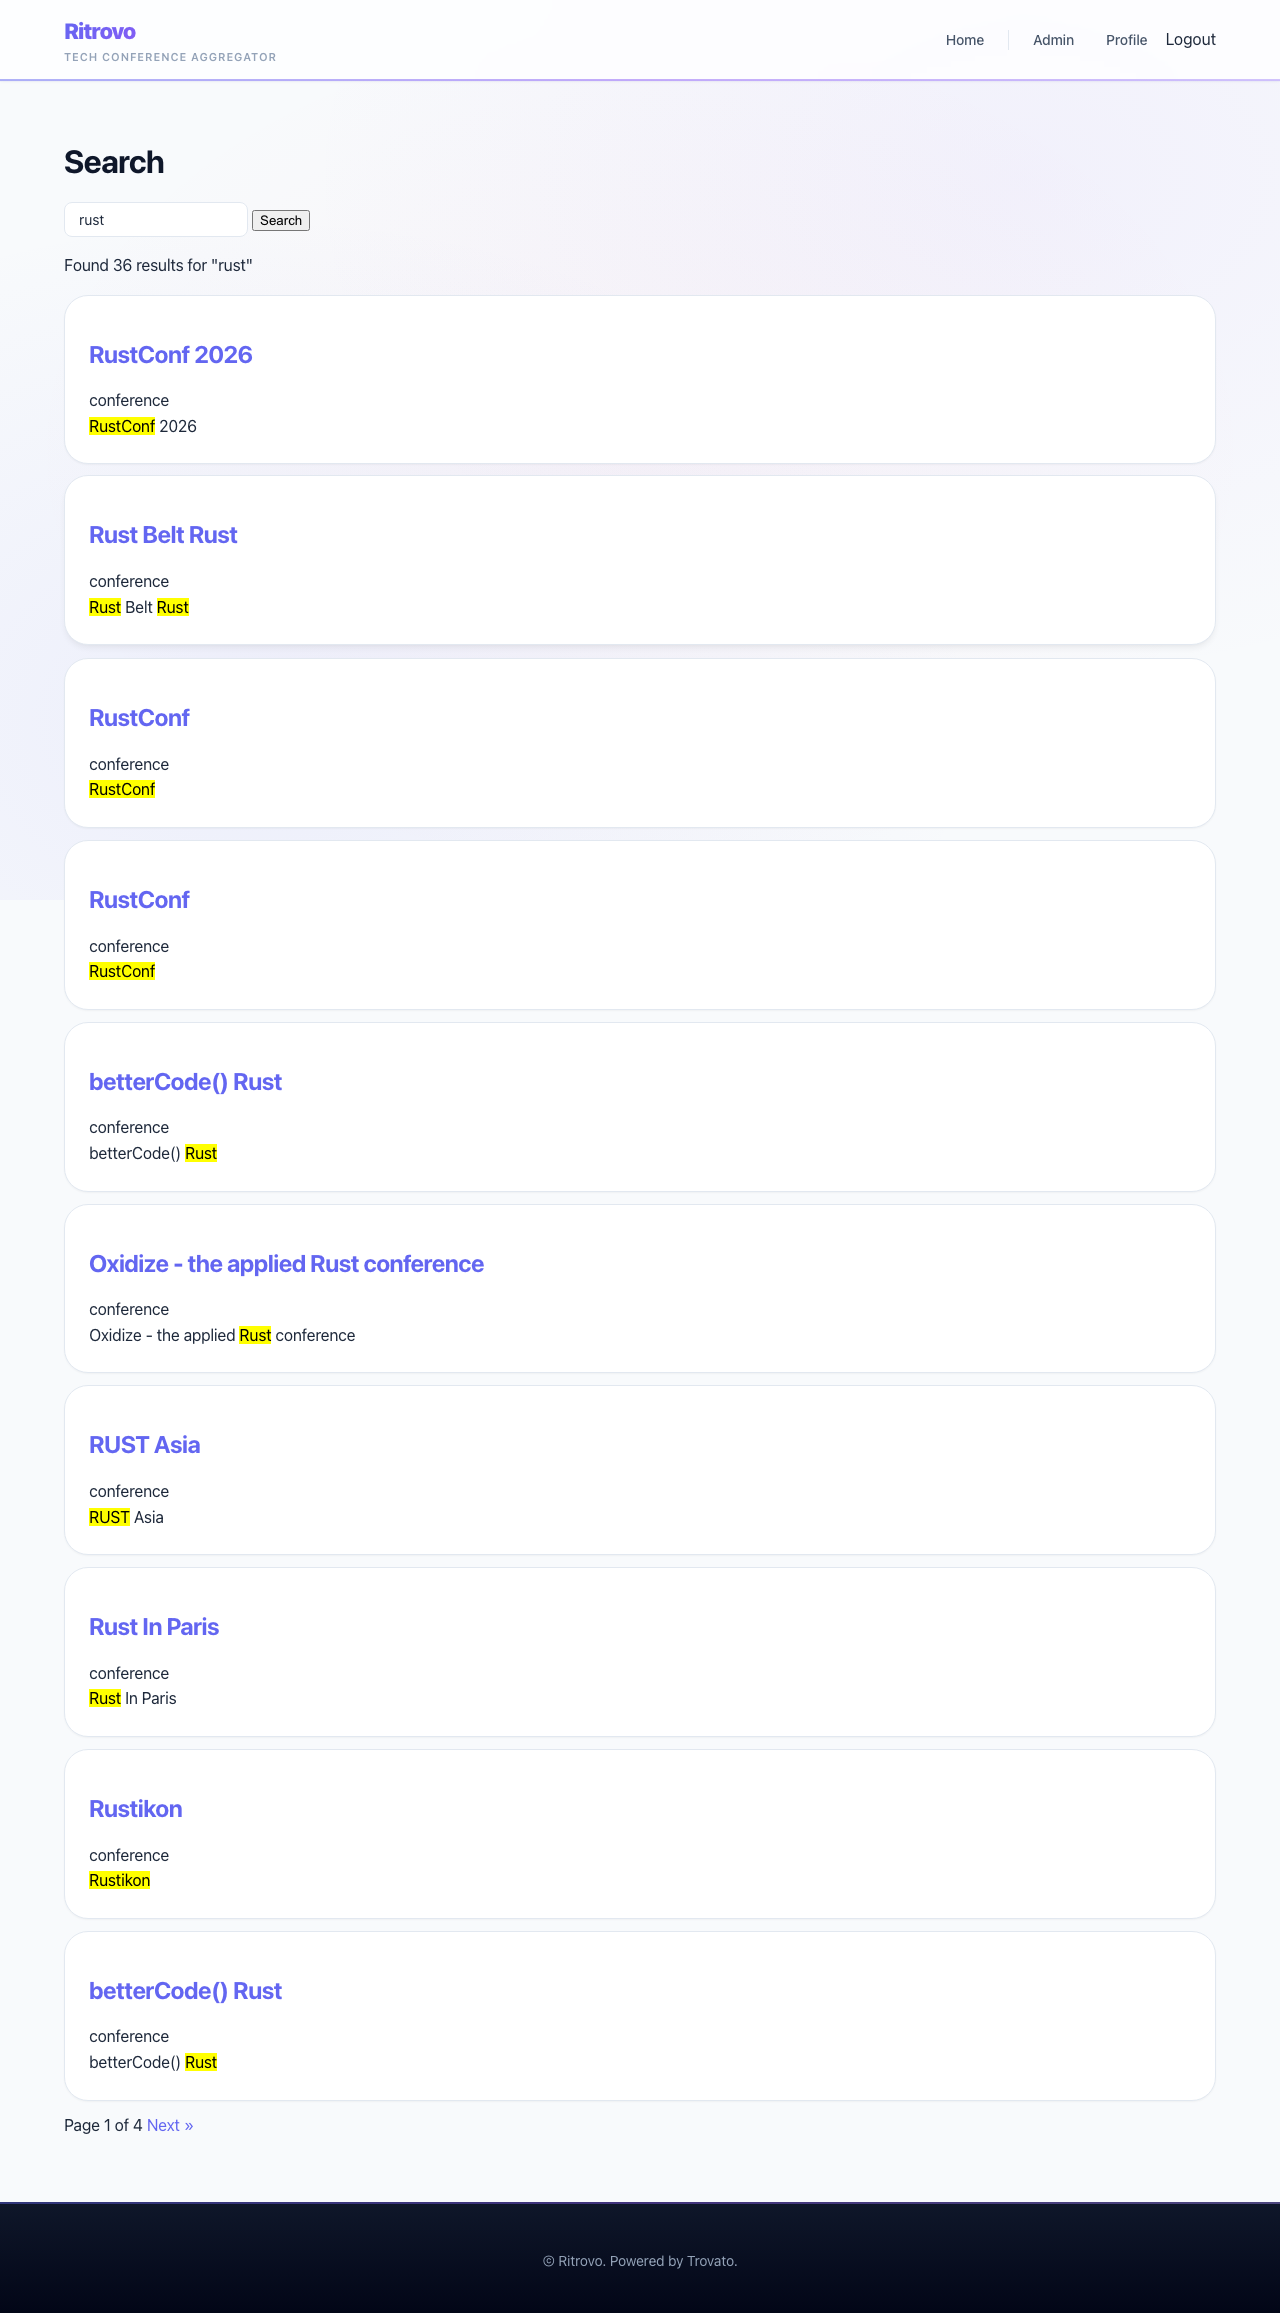
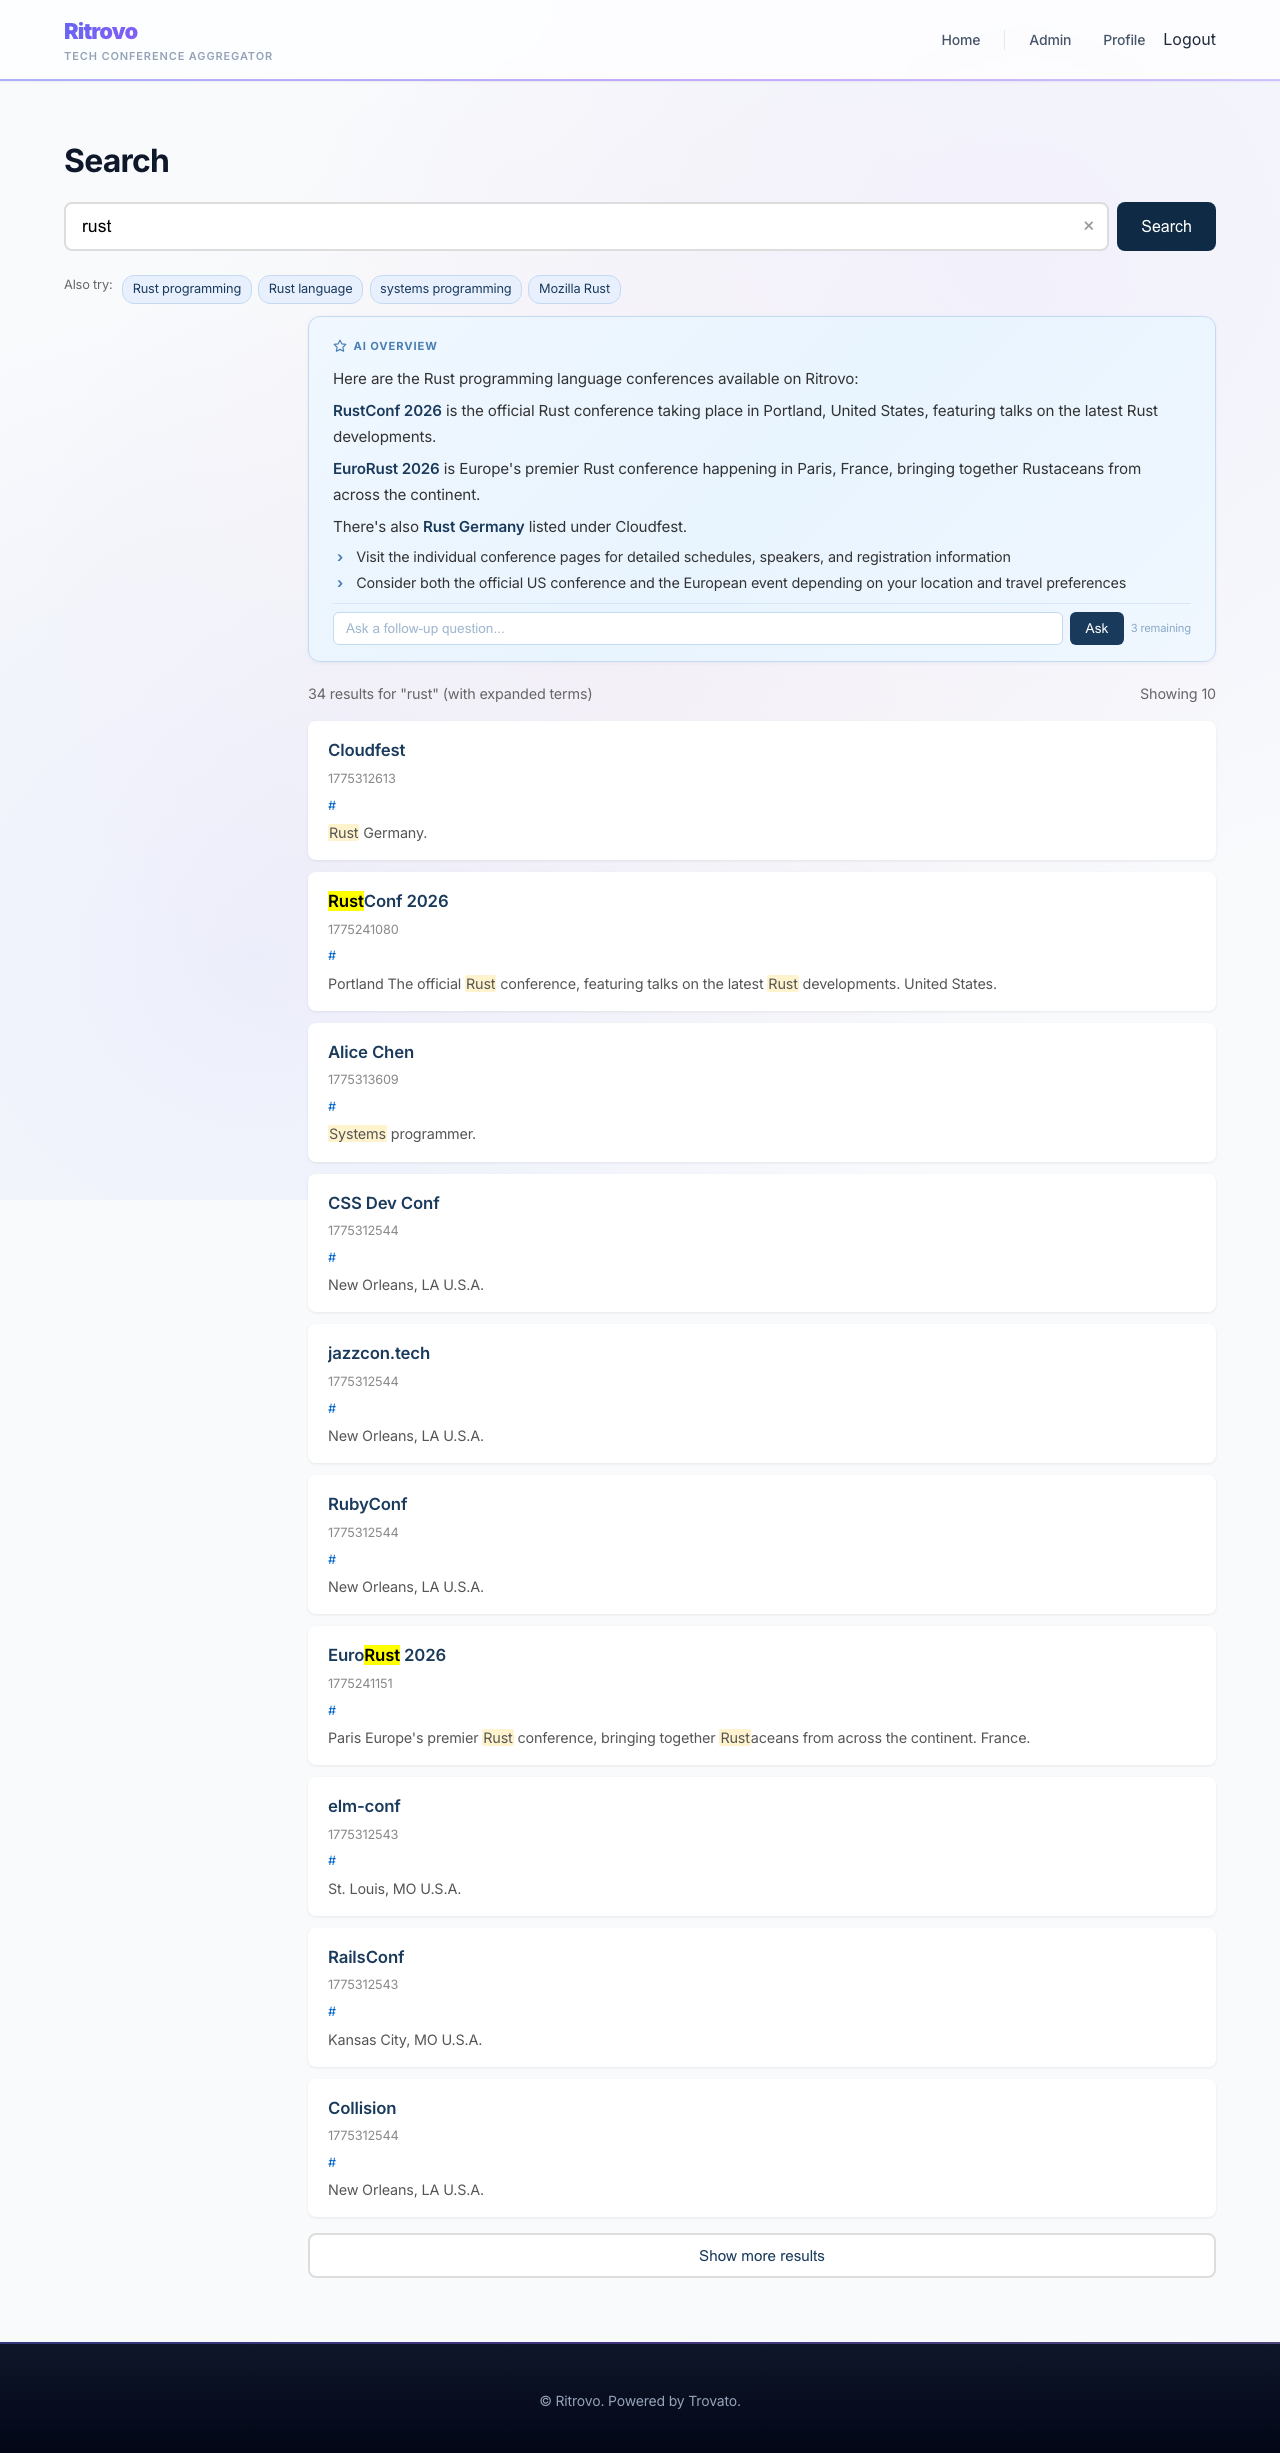
fix: Scolta AI search fully working — CSP, CSRF, response format
Three issues preventing Scolta AI features from working:

1. CSP blocked Pagefind WASM and inline scripts. Added 'unsafe-inline',
   'wasm-unsafe-eval', cdn.jsdelivr.net, and fonts.googleapis.com to
   Content-Security-Policy.

2. Search endpoints required CSRF tokens but scolta.js doesn't send
   them. Removed CSRF from expand/summarize/followup — these are
   read-only search enhancements, not state-changing operations.

3. Response format mismatch: scolta.js sends { query, context } (string)
   and expects { summary } JSON, but endpoints sent SSE and expected
   { query, excerpts } (structured). Fixed to accept both formats and
   return plain JSON.

Screenshot recaptured showing real Scolta search with:
- AI-expanded terms (4 alternative queries)
- AI Overview summary (Claude-generated answer with sources)
- 34 merged results from Pagefind
- Deduplication (9 near-duplicates removed)

diff --git a/crates/kernel/src/routes/api_search.rs b/crates/kernel/src/routes/api_search.rs
@@ -10,16 +10,15 @@
 use std::convert::Infallible;
 
 use axum::extract::State;
-use axum::http::{HeaderMap, StatusCode};
+use axum::http::StatusCode;
 use axum::response::sse::{Event, KeepAlive, Sse};
 use axum::response::{IntoResponse, Response};
 use axum::routing::post;
 use axum::{Json, Router};
 use serde::{Deserialize, Serialize};
-use tower_sessions::Session;
 
 use crate::models::SiteConfig;
-use crate::routes::helpers::{JsonError, require_csrf_header};
+use crate::routes::helpers::JsonError;
 use crate::search::prompts;
 use crate::services::ai_provider::{AiOperationType, ProviderProtocol};
 use crate::state::AppState;
@@ -49,18 +48,32 @@ struct ExpandResponse {
 }
 
 /// Request for AI summary.
+///
+/// Accepts `excerpts` (structured) or `context` (plain text from scolta.js).
 #[derive(Debug, Deserialize)]
 struct SummarizeRequest {
     query: String,
+    #[serde(default)]
     excerpts: Vec<Excerpt>,
+    /// Plain text context from scolta.js (alternative to excerpts).
+    #[serde(default)]
+    context: Option<String>,
 }
 
 /// Request for follow-up conversation.
+///
+/// scolta.js sends `{ messages: [...] }` with conversation history.
 #[derive(Debug, Deserialize)]
 struct FollowupRequest {
-    query: String,
+    #[serde(default)]
+    query: Option<String>,
+    #[serde(default)]
     history: Vec<Message>,
+    #[serde(default)]
     excerpts: Vec<Excerpt>,
+    /// Conversation messages from scolta.js (alternative to query+history).
+    #[serde(default)]
+    messages: Vec<Message>,
 }
 
 /// A search result excerpt for AI context.
@@ -83,16 +96,10 @@ struct Message {
 // ============================================================================
 
 /// Expand a search query into alternative terms via AI.
-async fn expand_query(
-    State(state): State<AppState>,
-    session: Session,
-    headers: HeaderMap,
-    Json(body): Json<ExpandRequest>,
-) -> Response {
-    if let Err((status, json)) = require_csrf_header(&session, &headers).await {
-        return (status, json).into_response();
-    }
-
+///
+/// No CSRF required — this is a read-only search enhancement, not a
+/// state-changing operation. scolta.js calls this from the client.
+async fn expand_query(State(state): State<AppState>, Json(body): Json<ExpandRequest>) -> Response {
     if body.query.trim().is_empty() {
         return (
             StatusCode::BAD_REQUEST,
@@ -182,46 +189,23 @@ async fn expand_query(
 }
 
 /// Summarize search results via AI with SSE streaming.
-async fn summarize(
-    State(state): State<AppState>,
-    session: Session,
-    headers: HeaderMap,
-    Json(body): Json<SummarizeRequest>,
-) -> Response {
-    if let Err((status, json)) = require_csrf_header(&session, &headers).await {
-        return (status, json).into_response();
-    }
-
-    if body.query.trim().is_empty() || body.excerpts.is_empty() {
+///
+/// No CSRF required — read-only search enhancement.
+async fn summarize(State(state): State<AppState>, Json(body): Json<SummarizeRequest>) -> Response {
+    // Accept either structured excerpts or plain text context from scolta.js
+    let context_text = if let Some(ref ctx) = body.context {
+        ctx.clone()
+    } else if !body.excerpts.is_empty() {
+        build_excerpt_context(&body.excerpts)
+    } else {
         return (
             StatusCode::BAD_REQUEST,
             Json(JsonError {
-                error: "Query and excerpts required".to_string(),
+                error: "Query and excerpts/context required".to_string(),
             }),
         )
             .into_response();
-    }
-
-    // Build context from excerpts
-    let context = build_excerpt_context(&body.excerpts);
-    let user_prompt = format!(
-        "Search query: {}\n\nSearch result excerpts:\n{}",
-        body.query, context
-    );
-
-    stream_ai_response(&state, prompts::SUMMARIZE, &user_prompt).await
-}
-
-/// Handle follow-up conversation via AI with SSE streaming.
-async fn followup(
-    State(state): State<AppState>,
-    session: Session,
-    headers: HeaderMap,
-    Json(body): Json<FollowupRequest>,
-) -> Response {
-    if let Err((status, json)) = require_csrf_header(&session, &headers).await {
-        return (status, json).into_response();
-    }
+    };
 
     if body.query.trim().is_empty() {
         return (
@@ -233,21 +217,49 @@ async fn followup(
             .into_response();
     }
 
-    // Build the conversation context
-    let mut user_prompt = String::new();
-    for msg in &body.history {
-        user_prompt.push_str(&format!("{}: {}\n\n", msg.role, msg.content));
-    }
-    user_prompt.push_str(&format!("User: {}\n", body.query));
+    let user_prompt = format!(
+        "Search query: {}\n\nSearch result excerpts:\n{}",
+        body.query, context_text
+    );
 
-    if !body.excerpts.is_empty() {
-        let context = build_excerpt_context(&body.excerpts);
-        user_prompt.push_str(&format!(
-            "\nAdditional search results for this follow-up:\n{context}",
-        ));
-    }
+    json_ai_response(&state, prompts::SUMMARIZE, &user_prompt).await
+}
 
-    stream_ai_response(&state, prompts::FOLLOW_UP, &user_prompt).await
+/// Handle follow-up conversation via AI with SSE streaming.
+///
+/// No CSRF required — read-only search enhancement.
+async fn followup(State(state): State<AppState>, Json(body): Json<FollowupRequest>) -> Response {
+    // Build conversation context from either messages (scolta.js) or query+history
+    let user_prompt = if !body.messages.is_empty() {
+        body.messages
+            .iter()
+            .map(|m| format!("{}: {}", m.role, m.content))
+            .collect::<Vec<_>>()
+            .join("\n\n")
+    } else if let Some(ref query) = body.query {
+        let mut prompt = String::new();
+        for msg in &body.history {
+            prompt.push_str(&format!("{}: {}\n\n", msg.role, msg.content));
+        }
+        prompt.push_str(&format!("User: {query}\n"));
+        if !body.excerpts.is_empty() {
+            let context = build_excerpt_context(&body.excerpts);
+            prompt.push_str(&format!(
+                "\nAdditional search results for this follow-up:\n{context}",
+            ));
+        }
+        prompt
+    } else {
+        return (
+            StatusCode::BAD_REQUEST,
+            Json(JsonError {
+                error: "Query or messages required".to_string(),
+            }),
+        )
+            .into_response();
+    };
+
+    json_ai_response_with_key(&state, prompts::FOLLOW_UP, &user_prompt, "response").await
 }
 
 // ============================================================================
@@ -264,7 +276,78 @@ fn build_excerpt_context(excerpts: &[Excerpt]) -> String {
         .join("\n")
 }
 
-/// Stream an AI response as SSE events.
+/// Return an AI response as JSON with `{ summary: "..." }`.
+async fn json_ai_response(state: &AppState, prompt_template: &str, user_prompt: &str) -> Response {
+    json_ai_response_with_key(state, prompt_template, user_prompt, "summary").await
+}
+
+/// Return an AI response as JSON with a custom key.
+async fn json_ai_response_with_key(
+    state: &AppState,
+    prompt_template: &str,
+    user_prompt: &str,
+    key: &str,
+) -> Response {
+    let ai_providers = state.ai_providers();
+    let Ok(Some(resolved)) = ai_providers
+        .resolve_provider(AiOperationType::Chat, None)
+        .await
+    else {
+        return (
+            StatusCode::SERVICE_UNAVAILABLE,
+            Json(JsonError {
+                error: "AI provider not configured".to_string(),
+            }),
+        )
+            .into_response();
+    };
+
+    let site_name = SiteConfig::site_name(state.db())
+        .await
+        .unwrap_or_else(|_| "Trovato".to_string());
+    let site_slogan = SiteConfig::site_slogan(state.db())
+        .await
+        .unwrap_or_default();
+    let system_prompt = prompts::resolve(prompt_template, &site_name, &site_slogan);
+
+    let (url, request_body, auth_headers) =
+        build_chat_request(&resolved, &system_prompt, user_prompt);
+
+    let response = match ai_providers
+        .http()
+        .post(&url)
+        .timeout(std::time::Duration::from_secs(30))
+        .header("content-type", "application/json")
+        .body(request_body)
+        .headers_from_vec(&auth_headers)
+        .send()
+        .await
+    {
+        Ok(r) if r.status().is_success() => r,
+        _ => {
+            return (
+                StatusCode::BAD_GATEWAY,
+                Json(JsonError {
+                    error: "AI request failed".to_string(),
+                }),
+            )
+                .into_response();
+        }
+    };
+
+    let response_text = response.text().await.unwrap_or_default();
+    let (content, _tokens) = match resolved.config.protocol {
+        ProviderProtocol::OpenAiCompatible => parse_openai_response(&response_text),
+        ProviderProtocol::Anthropic => parse_anthropic_response(&response_text),
+    };
+
+    let mut result = serde_json::Map::new();
+    result.insert(key.to_string(), serde_json::Value::String(content));
+    Json(serde_json::Value::Object(result)).into_response()
+}
+
+/// Stream an AI response as SSE events (kept for future use).
+#[allow(dead_code)]
 async fn stream_ai_response(
     state: &AppState,
     prompt_template: &str,

diff --git a/crates/kernel/src/middleware/security_headers.rs b/crates/kernel/src/middleware/security_headers.rs
@@ -21,12 +21,18 @@ static PERMISSIONS: HeaderValue =
 static HSTS: HeaderValue = HeaderValue::from_static("max-age=31536000; includeSubDomains");
 
 /// The default CSP policy (no report-uri variant).
+/// The default CSP policy.
+///
+/// `script-src` includes `'unsafe-inline'` because several pages inject
+/// configuration via inline `<script>` blocks (Scolta search config,
+/// Editor.js initialization, Trovato AJAX init). A future improvement
+/// would use nonce-based CSP to avoid unsafe-inline.
 static DEFAULT_CSP: HeaderValue = HeaderValue::from_static(
     "default-src 'self'; \
-     script-src 'self'; \
-     style-src 'self' 'unsafe-inline'; \
+     script-src 'self' 'unsafe-inline' 'wasm-unsafe-eval' https://cdn.jsdelivr.net; \
+     style-src 'self' 'unsafe-inline' https://fonts.googleapis.com; \
      img-src 'self' data:; \
-     font-src 'self'; \
+     font-src 'self' https://fonts.gstatic.com; \
      connect-src 'self'; \
      frame-ancestors 'none'",
 );
